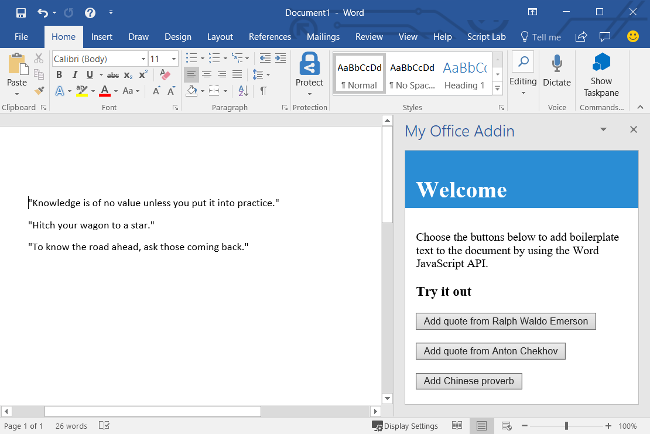
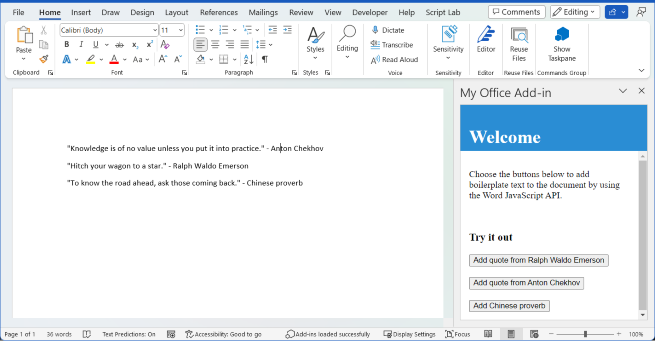
[Word] (quick start) Refresh Visual Studio version (#3946)
* [Word] (quick start) Refresh Visual Studio version

* Update screenshots

* resize screenshots

* Update ms.date

* Apply suggestions from code review

* Updates based on feedback

---------

diff --git a/docs/quickstarts/word-quickstart.md b/docs/quickstarts/word-quickstart.md
@@ -1,7 +1,7 @@
 ---
 title: Build your first Word task pane add-in
 description: Learn how to build a simple Word task pane add-in by using the Office JavaScript API.
-ms.date: 06/10/2022
+ms.date: 04/17/2023
 ms.prod: word
 ms.localizationpriority: high
 ---
@@ -30,7 +30,7 @@ In this article, you'll walk through the process of building a Word task pane ad
 - **What do you want to name your add-in?** `My Office Add-in`
 - **Which Office client application would you like to support?** `Word`
 
-![Screenshot showing the prompts and answers for the Yeoman generator in a command line interface.](../images/yo-office-word.png)
+![The prompts and answers for the Yeoman generator in a command line interface.](../images/yo-office-word.png)
 
 After you complete the wizard, the generator creates the project and installs supporting Node components.
 
@@ -71,11 +71,11 @@ After you complete the wizard, the generator creates the project and installs su
 
 1. In Word, if the "My Office Add-in" task pane isn't already open, open a new document, choose the **Home** tab, and then choose the **Show Taskpane** button in the ribbon to open the add-in task pane.
 
-    ![Screenshot showing the Word application with the Show Taskpane button highlighted.](../images/word-quickstart-addin-2b.png)
+    ![The Word application with the Show Taskpane button highlighted.](../images/word-quickstart-addin-2b.png)
 
 1. At the bottom of the task pane, choose the **Run** link to add the text "Hello World" to the document in blue font.
 
-    ![Screenshot of the Word application with the task pane add-in loaded.](../images/word-quickstart-addin-1c.png)
+    ![The Word application with the task pane add-in loaded.](../images/word-quickstart-addin-1c.png)
 
 ### Next steps
 
@@ -94,11 +94,11 @@ Congratulations, you've successfully created a Word task pane add-in! Next, lear
 
 1. In Visual Studio, choose **Create a new project**.
 
-2. Using the search box, enter **add-in**. Choose **Word Web Add-in**, then select **Next**.
+1. Using the search box, enter **add-in**. Choose **Word Web Add-in**, then select **Next**.
 
-3. Name your project and select **Create**.
+1. Name your project and select **Create**.
 
-4. Visual Studio creates a solution and its two projects appear in **Solution Explorer**. The **Home.html** file opens in Visual Studio.
+1. Visual Studio creates a solution and its two projects appear in **Solution Explorer**. The **Home.html** file opens in Visual Studio.
 
 ### Explore the Visual Studio solution
 
@@ -132,7 +132,7 @@ Congratulations, you've successfully created a Word task pane add-in! Next, lear
     </body>
     ```
 
-2. Open the file **Home.js** in the root of the web application project. This file specifies the script for the add-in. Replace the entire contents with the following code and save the file.
+1. Open the file **Home.js** in the root of the web application project. This file specifies the script for the add-in. Replace the entire contents with the following code and save the file.
 
     [!include[Information about the use of ES6 JavaScript](../includes/modern-js-note.md)]
 
@@ -152,9 +152,8 @@ Congratulations, you've successfully created a Word task pane add-in! Next, lear
                     $('#checkhov').click(insertChekhovQuoteAtTheBeginning);
                     $('#proverb').click(insertChineseProverbAtTheEnd);
                     $('#supportedVersion').html('This code is using Word 2016 or later.');
-                }
-                else {
-                    // Just letting you know that this code will not work with your version of Word.
+                } else {
+                    // Lets you know that this code will not work with your version of Word.
                     $('#supportedVersion').html('This code requires Word 2016 or later.');
                 }
             });
@@ -171,7 +170,7 @@ Congratulations, you've successfully created a Word task pane add-in! Next, lear
                 const range = thisDocument.getSelection();
 
                 // Queue a command to replace the selected text.
-                range.insertText('"Hitch your wagon to a star."\n', Word.InsertLocation.replace);
+                range.insertText('"Hitch your wagon to a star." - Ralph Waldo Emerson\n', Word.InsertLocation.replace);
 
                 // Synchronize the document state by executing the queued commands,
                 // and return a promise to indicate task completion.
@@ -193,7 +192,7 @@ Congratulations, you've successfully created a Word task pane add-in! Next, lear
                 const body = context.document.body;
 
                 // Queue a command to insert text at the start of the document body.
-                body.insertText('"Knowledge is of no value unless you put it into practice."\n', Word.InsertLocation.start);
+                body.insertText('"Knowledge is of no value unless you put it into practice." - Anton Chekhov\n', Word.InsertLocation.start);
 
                 // Synchronize the document state by executing the queued commands,
                 // and return a promise to indicate task completion.
@@ -215,7 +214,7 @@ Congratulations, you've successfully created a Word task pane add-in! Next, lear
                 const body = context.document.body;
 
                 // Queue a command to insert text at the end of the document body.
-                body.insertText('"To know the road ahead, ask those coming back."\n', Word.InsertLocation.end);
+                body.insertText('"To know the road ahead, ask those coming back." - Chinese proverb\n', Word.InsertLocation.end);
 
                 // Synchronize the document state by executing the queued commands,
                 // and return a promise to indicate task completion.
@@ -232,7 +231,7 @@ Congratulations, you've successfully created a Word task pane add-in! Next, lear
     })();
     ```
 
-3. Open the file **Home.css** in the root of the web application project. This file specifies the custom styles for the add-in. Replace the entire contents with the following code and save the file.
+1. Open the file **Home.css** in the root of the web application project. This file specifies the custom styles for the add-in. Replace the entire contents with the following code and save the file.
 
     ```css
     #content-header {
@@ -265,19 +264,19 @@ Congratulations, you've successfully created a Word task pane add-in! Next, lear
 
 1. Open the XML manifest file in the add-in project. This file defines the add-in's settings and capabilities.
 
-2. The `ProviderName` element has a placeholder value. Replace it with your name.
+1. The `ProviderName` element has a placeholder value. Replace it with your name.
 
-3. The `DefaultValue` attribute of the `DisplayName` element has a placeholder. Replace it with **My Office Add-in**.
+1. The `DefaultValue` attribute of the `DisplayName` element has a placeholder. Replace it with **My Office Add-in**.
 
-4. The `DefaultValue` attribute of the `Description` element has a placeholder. Replace it with **A task pane add-in for Word**.
+1. The `DefaultValue` attribute of the `Description` element has a placeholder. Replace it with **A task pane add-in for Word**.
 
-5. Save the file.
+1. Save the file.
 
     ```xml
     ...
     <ProviderName>John Doe</ProviderName>
     <DefaultLocale>en-US</DefaultLocale>
-    <!-- The display name of your add-in. Used on the store and various places of the Office UI such as the add-ins dialog. -->
+    <!-- The display name of your add-in. Used on the Store and various places of the Office UI such as the add-ins dialog. -->
     <DisplayName DefaultValue="My Office Add-in" />
     <Description DefaultValue="A task pane add-in for Word"/>
     ...
@@ -287,13 +286,13 @@ Congratulations, you've successfully created a Word task pane add-in! Next, lear
 
 1. Using Visual Studio, test the newly created Word add-in by pressing **F5** or choosing **Debug** > **Start Debugging** to launch Word with the **Show Taskpane** add-in button displayed in the ribbon. The add-in will be hosted locally on IIS.
 
-2. In Word, choose the **Home** tab, and then choose the **Show Taskpane** button in the ribbon to open the add-in task pane. (If you're using the volume-licensed perpetual version of Office, instead of the Microsoft 365 version or a retail perpetual version, then custom buttons are not supported. Instead, the task pane will open immediately.)
+1. In Word, if the add-in task pane isn't already open, choose the **Home** tab, and then choose the **Show Taskpane** button in the ribbon to open the add-in task pane. (If you're using the volume-licensed perpetual version of Office, instead of the Microsoft 365 version or a retail perpetual version, then custom buttons aren't supported. Instead, the task pane will open immediately.)
 
-    ![Screenshot of the Word application with the Show Taskpane button highlighted.](../images/word-quickstart-addin-0.png)
+    ![The Word application with the Show Taskpane button highlighted.](../images/word-quickstart-addin-0.png)
 
-3. In the task pane, choose any of the buttons to add boilerplate text to the document.
+1. In the task pane, choose any of the buttons to add boilerplate text to the document.
 
-    ![Screenshot of the Word application with the boilerplate add-in loaded.](../images/word-quickstart-addin-1b.png)
+    ![The Word application with the boilerplate add-in loaded.](../images/word-quickstart-addin-1b.png)
 
 [!include[Console tool note](../includes/console-tool-note.md)]
 
